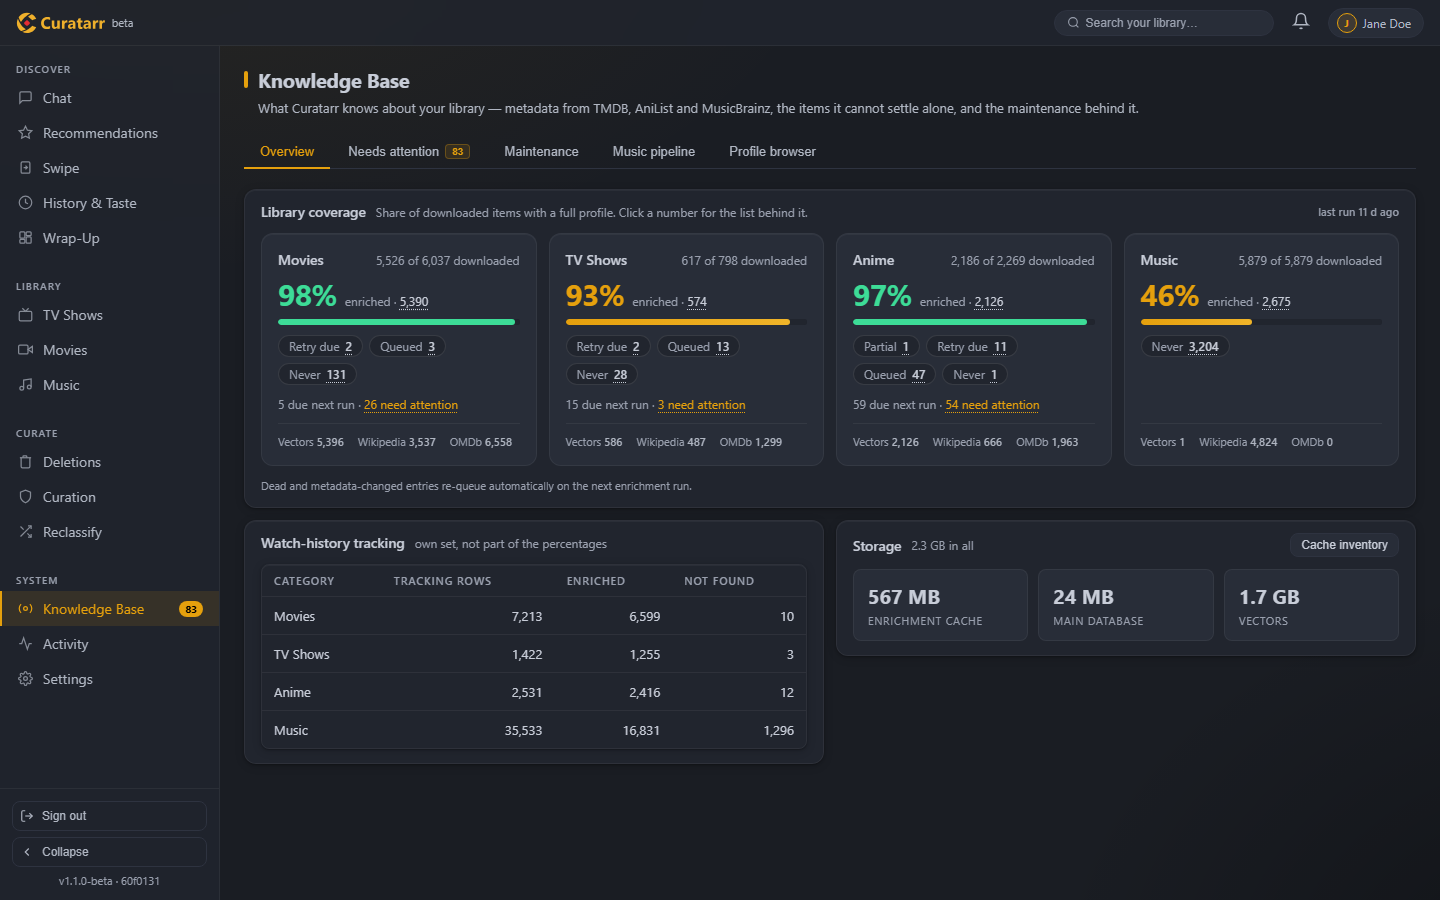
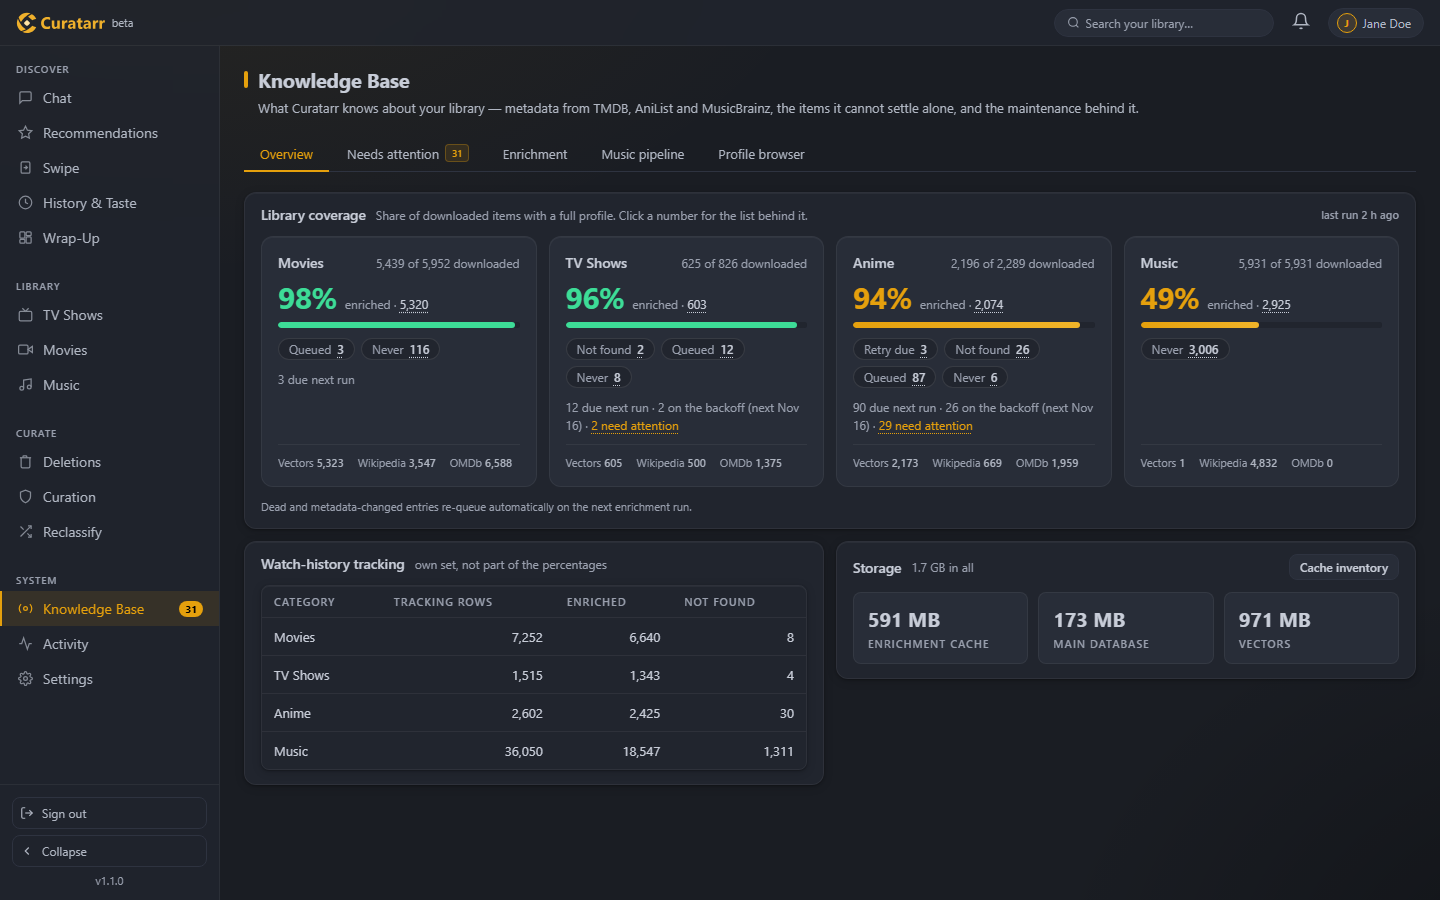
README screenshots: the 16 frames retaken from the demo builder
Made with scripts/demo/build_demo.py from today's NAS backup and cache
snapshot: the new dialog shell, the toolbars and words of #353 on the Jane
Doe household; Wrap-Up story written by the curator, 50 deletion proposals
from a films-only analysis, one chat answer.

capture_screenshots.py: the chat frame opens the folded conversation (the
landing hides it behind 'Continue our last conversation' since the UX
audit), and the settle wait covers Swipe's card poster (img.swipe-poster),
which was shot before it loaded.

diff --git a/scripts/capture_screenshots.py b/scripts/capture_screenshots.py
@@ -57,6 +57,15 @@ _YEAR = "localStorage.setItem('curatarr_wrapup', JSON.stringify({scope: 'all', p
 _CLOSE_STORY = "js:document.querySelector('.wus-close')?.click()"
 
 
+# The chat opens on its landing with the last conversation folded behind
+# "Continue our last conversation"; the desktop frame shows the exchange.
+_OPEN_CHAT = ("js:(async () => { for (let i = 0; i < 50 && !document.getElementById('earlier-chat-btn'); i++)"
+              " await new Promise(r => setTimeout(r, 100));"
+              " document.getElementById('earlier-chat-btn')?.click();"
+              " await new Promise(r => setTimeout(r, 400));"
+              " const m = document.getElementById('messages'); if (m) m.scrollTop = 0; })()")
+
+
 def _slide(cls: str) -> str:
     return ("js:(async () => { for (let i = 0; i < 40 && !document.querySelector('.wus-stage.wus-s-"
             + cls + "'); i++) { document.querySelector('.wus-next').click();"
@@ -66,7 +75,7 @@ def _slide(cls: str) -> str:
 SHOTS = [
     ("wrapup", "desktop", "#wrapup", "#wrapup-view .wu-hero, #wrapup-view .wu-empty", _CLOSE_STORY, _YEAR),
     ("deletions", "desktop", "#deletions", "#deletions-view.active", None),
-    ("chat", "desktop", "#chat", "#chat-view.active #chat-input-area", None),
+    ("chat", "desktop", "#chat", "#chat-view.active #chat-input-area", _OPEN_CHAT),
     ("recommendations", "desktop", "#recs", "#recs-view.active",
      "click:#recs-view .cat-tab:nth-child(2)"),
     ("knowledge-base", "desktop", "#enrich", "#enrich-view.active", None),
@@ -126,15 +135,16 @@ def _pseudonymise(page, name: str) -> None:
 
 
 def _settle(page, timeout_ms: int) -> None:
-    """Posters fade in once loaded (img.poster-img.is-loaded); wait for the
-    ones in the viewport, then one more frame for the glow to take its tint."""
+    """Posters fade in once loaded (img.poster-img.is-loaded); Swipe's card
+    has its own (img.swipe-poster). Wait for the ones in the viewport, then
+    one more frame for the glow to take its tint."""
     try:
         page.wait_for_function("""() => {
-            const imgs = [...document.querySelectorAll('img.poster-img')].filter(i => {
+            const imgs = [...document.querySelectorAll('img.poster-img, img.swipe-poster')].filter(i => {
                 const r = i.getBoundingClientRect();
                 return r.bottom > 0 && r.top < innerHeight && r.width > 0;
             });
-            return imgs.every(i => i.classList.contains('is-loaded') || i.complete);
+            return imgs.every(i => i.classList.contains('is-loaded') || (i.complete && i.naturalWidth > 0));
         }""", timeout=timeout_ms)
     except Exception:  # noqa: BLE001 - a poster that never loads still leaves a usable frame
         pass
